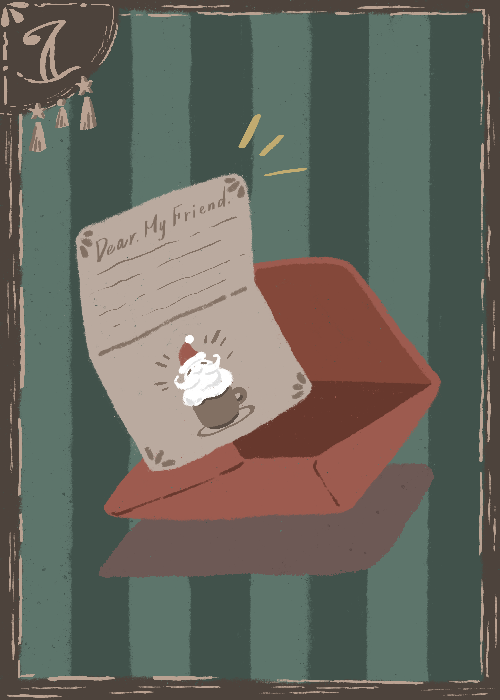
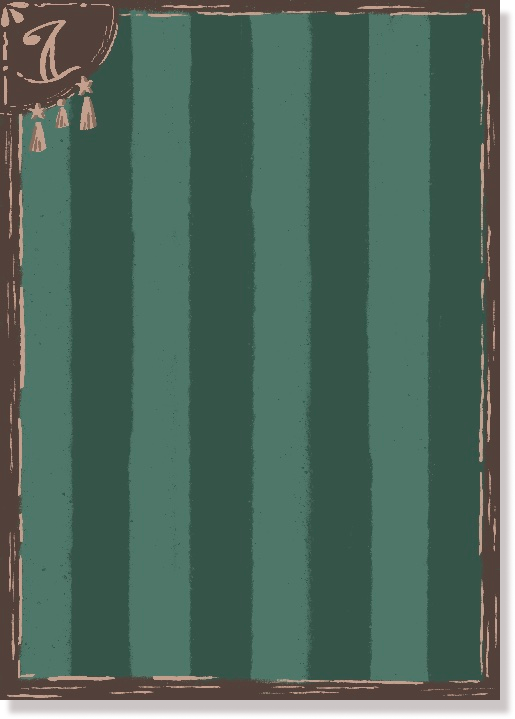
測驗頁動畫

diff --git a/script_test_effect.js b/script_test_effect.js
@@ -1,7 +1,48 @@
 $(document).ready(function() {
-    //測驗頁動畫
-    /*$(".main-scene").fadeTo(1000, 1);
-        setTimeout(function() {
-            $(".main-content").fadeTo(1000, 1);
-        }, 500);*/
+    //依序淡入
+    $(".main-progress").fadeTo(1000, 1);
+    setTimeout(function() {
+        $(".main-content-scene").fadeTo(1000, 1);
+    }, 500);
+    setTimeout(function() {
+        $(".main-content-word").fadeTo(1000, 1);
+    }, 1000);
+    
+    //情境圖動畫
+    let whetherPlayed = false;
+    let cardAnimation = function(){
+        // 獲取當前滾動位置，若下滑超過特定位置則播放動畫（僅限一次）
+        if(window.scrollY >= 350 && whetherPlayed == false){
+            let card = document.querySelector(".main-content-scene-card");
+            setTimeout(function() {
+                card.setAttribute("src", "images/scene1_card2.png");
+            }, 500);
+            setTimeout(function() {
+                card.setAttribute("src", "images/scene1_card3.png");
+            }, 1000);
+            setTimeout(function() {
+                card.setAttribute("src", "images/scene1_card4.png");
+            }, 1500);
+            
+            whetherPlayed = true;
+        }
+    };
+
+    cardAnimation();
+    window.addEventListener('scroll', function() {
+        cardAnimation();
+    });
+
+    //.header-home-icon的hover效果
+    //因為用css容易lag所以就搬來這裡了
+    let home = document.querySelector(".header-home-icon");
+    home.addEventListener("mouseenter", function(){
+        home.setAttribute("src", "images/home_icon_hover.png");
+    });
+    home.addEventListener("mouseout", function(){
+        home.setAttribute("src", "images/home_icon_normal.png");
+    });
+
+    //淡出
+    //預計跟計分的程式碼放一起
 });

diff --git a/style_test.css b/style_test.css
@@ -45,10 +45,6 @@ body {
     margin-left: 63px;
 }
 
-.header-home-icon:hover {
-    content: url("images/home_icon_hover.png");
-}
-
 .main {
     display: flex;
     flex-direction: column;
@@ -56,12 +52,15 @@ body {
 }
 
 .main-progress {
+    opacity: 0; /*淡入用*/
+
     display: block;
     
     width: 100vw; /*滿版的寬度*/
     max-width: 100%; /*避免下述的滿版範圍超出整個容器*/
 
-    margin-top: 19px;
+    margin-top: 18px;
+    margin-bottom: 20px;
 }
 
 .main-content {
@@ -72,20 +71,32 @@ body {
     max-width: 1280px;
     margin-left: auto;
     margin-right: auto;
-    margin-top: 66px;
     margin-bottom: 66px;
 }
 
 .main-content-scene {
+    opacity: 0; /*淡入用*/
+
     margin-right: 90px;
+    position: relative;
 }
 
 .main-content-scene-image {
-    display: block;
-    box-shadow: 0 3px 5px #4D433C; /*陰影需要調整一下*/
+
+}
+
+.main-content-scene-shadow {
+    position: absolute;
+    left: 0;
+}
+
+.main-content-scene-card {
+    position: absolute;
+    left: 0;
 }
 
 .main-content-word {
+    opacity: 0; /*淡入用*/
     display: flex;
     flex-direction: column;
 

diff --git a/test1.html b/test1.html
@@ -33,6 +33,8 @@
                 <div class="main-content">
                     <div class="main-content-scene">
                         <img class="main-content-scene-image" src="images/scene1.png" alt="情境圖">
+                        <img class="main-content-scene-shadow" src="images/scene1_shadow.png" alt="卡片陰影">
+                        <img class="main-content-scene-card" src="images/scene1_card1.png" alt="卡片">
                         <!--因為情境圖會做動畫，所以可能會多幾個新類別-->
                     </div>
                     <div class="main-content-word">

diff --git a/script_test_record1.js b/script_test_record1.js
@@ -8,7 +8,7 @@ clickTime = parseInt(clickTime); //轉換為數字，方便之後的計算
     //這頁被點擊過 => 刪除原先輸入的資料(等等怎麼刪www)
 
 if(clickTime == 1){ 
-    alert("不好意思，目前還沒辦法重新選擇選項，系統將自動帶您回到剛才的頁面"); /*沒有回傳值*/
+    //alert("不好意思，目前還沒辦法重新選擇選項，系統將自動帶您回到剛才的頁面"); /*沒有回傳值*/
     window.history.forward();
     //因為會自行跳轉，所以不用再添加其他設定
 }

diff --git a/style.css b/style.css
@@ -84,10 +84,6 @@ body {
 }
 
 /*按鈕點擊特效之起點*/
-.main-button-link:active {
-    box-shadow: 0 8px 10px #534943;
-}
-
 .main-button-dot { /*點點的軌道設置*/
     position: absolute; /*基準設在按鈕(連結)上*/
     z-index: 0;
